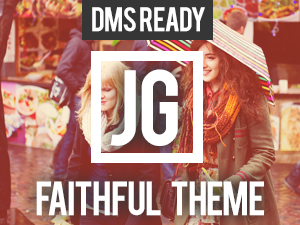
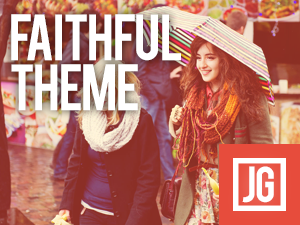
Updated screenshot and thumb images.

diff --git a/style.css b/style.css
@@ -1,8 +1,8 @@
 /*  
-Theme Name: Faithful Child Theme
+Theme Name: Faithful Theme
 Theme URI: http://usingpagelines.com/faithful
 Description: The Faithful theme is built to run on DMS using only core sections. Faithful takes full advantage of the new child theme system and provides the end user with a great out-of-the-box website that they can implement exactly as shown.
-Version: 1.0.1
+Version: 1.0.2
 Author: James Giroux
 Author URI: http://jamesgiroux.ca
 Tags: developer
